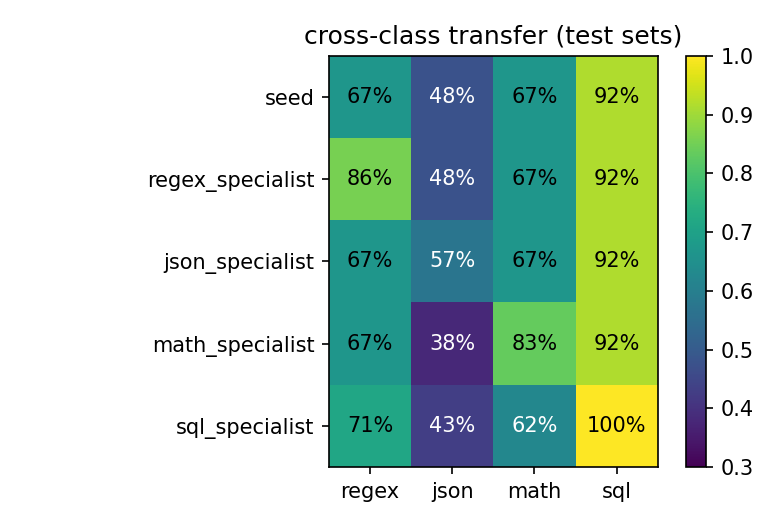
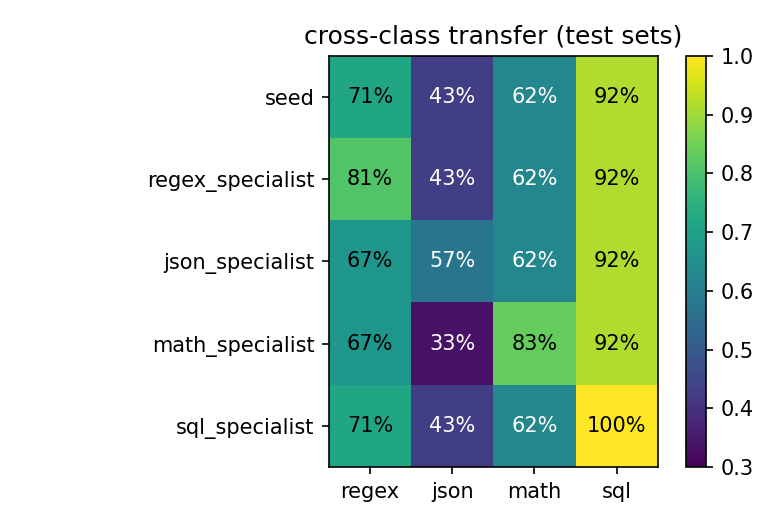
regen transfer matrix and add a Pareto-scatter figure. avg frontier carries 2.83 non-dominated points across 12 runs, the 'pareto collapse' framing was wrong

diff --git a/tools/plots.py b/tools/plots.py
@@ -104,6 +104,35 @@ def main() -> None:
     plt.close(fig)
     print(f"wrote {out_dir / 'transfer.png'}")
 
+    # ---- Figure 3: Pareto frontier scatter ----
+    # Each saved run contributes its frontier points as (mean_in_tokens, dev
+    # score). The seed point sits at low tokens / lower score; specialists
+    # spend 2-4x the tokens for 10-30pp dev-score gains. The frontier carries
+    # 2-4 non-dominated points per run on average, not a single point.
+    fig, ax = plt.subplots(figsize=(6.5, 4.2))
+    for cls in classes:
+        for run in sorted(Path(f"runs/{cls}").glob("seed*.json")):
+            d = json.loads(run.read_text())
+            xs, ys = [], []
+            for p in d["frontier"]:
+                xs.append(p["tokens"])
+                ys.append(p["score"] * 100)
+            order = sorted(zip(xs, ys))
+            ax.plot([o[0] for o in order], [o[1] for o in order],
+                    color=colors[cls], alpha=0.6, linewidth=1.2, marker="o", markersize=5)
+    for cls in classes:
+        ax.plot([], [], color=colors[cls], label=cls, marker="o", linewidth=2)
+    ax.set_xlabel("mean prompt tokens per dev eval")
+    ax.set_ylabel("dev score (%)")
+    ax.set_xscale("log")
+    ax.set_title("Pareto frontiers across 12 saved runs")
+    ax.legend(loc="lower right", framealpha=0.9)
+    ax.grid(alpha=0.25, which="both")
+    fig.tight_layout()
+    fig.savefig(out_dir / "pareto_scatter.png", dpi=150)
+    plt.close(fig)
+    print(f"wrote {out_dir / 'pareto_scatter.png'}")
+
 
 if __name__ == "__main__":
     main()
